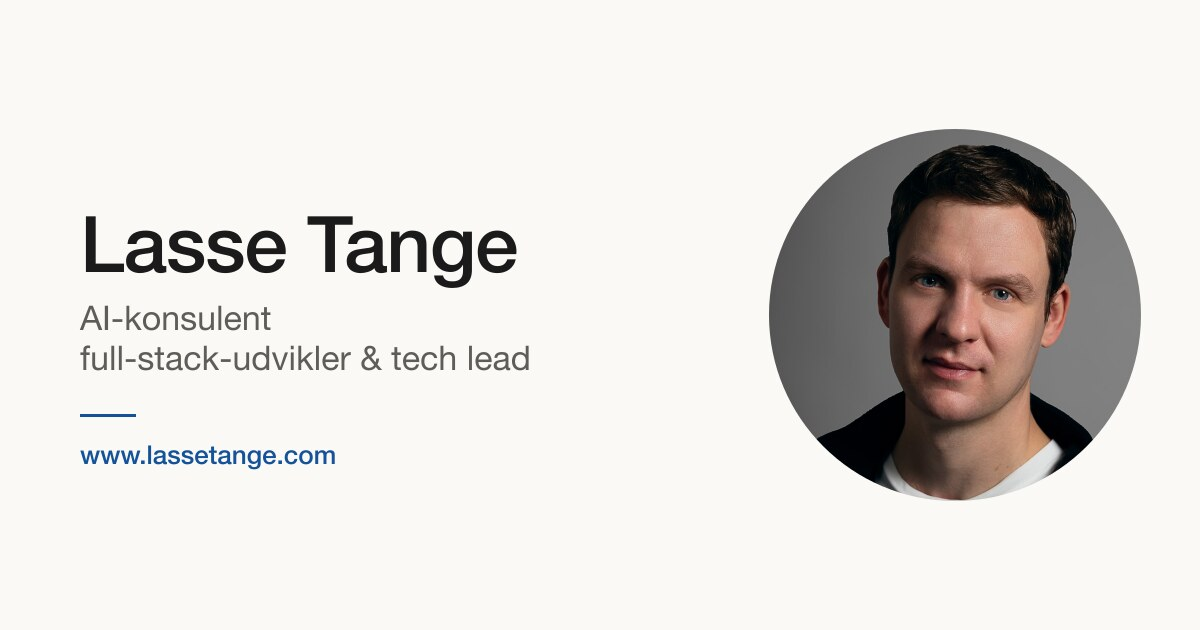
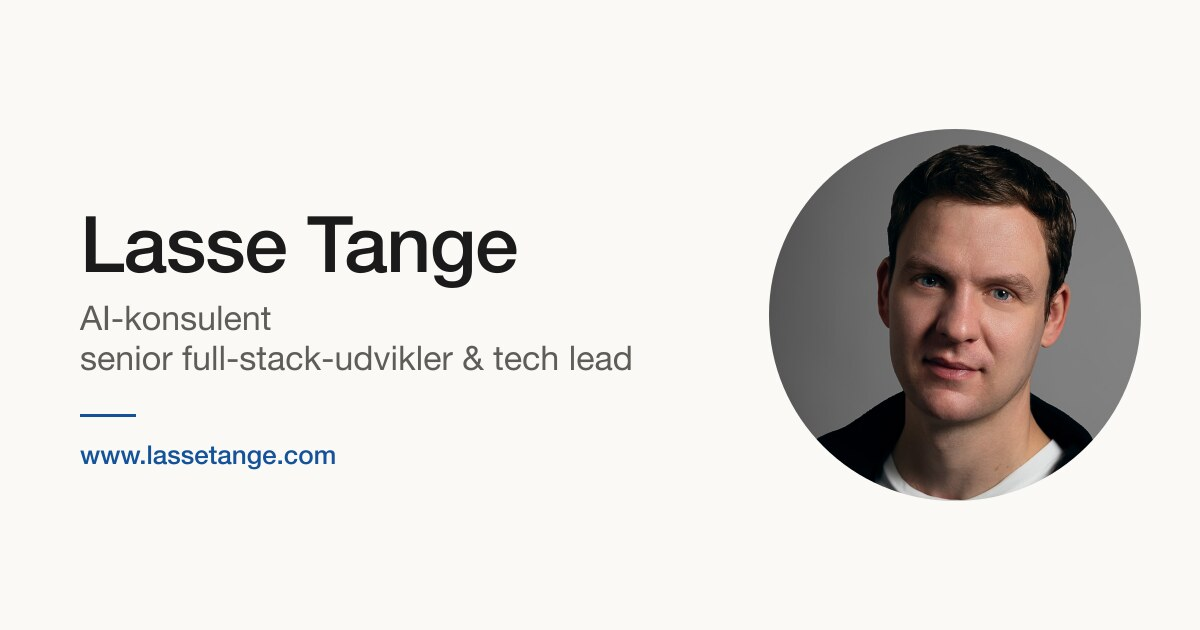
Update developer role

Changed region(s): [[0.0617, 0.5429, 0.5242, 0.6032]]

diff --git a/src/content/de/home.md b/src/content/de/home.md
@@ -1,6 +1,6 @@
 ---
 title: Lasse Tange
-tagline: KI-Berater, Full-Stack-Entwickler & Tech Lead
+tagline: KI-Berater, Senior-Full-Stack-Entwickler & Tech Lead
 description: KI-Berater und Senior-Full-Stack-Entwickler in Kopenhagen. Über 15 Jahre Erfahrung mit Web-, Mobile- und Desktop-Apps, mit Fokus auf angewandte KI.
 ---
 

diff --git a/src/content/da/home.md b/src/content/da/home.md
@@ -1,6 +1,6 @@
 ---
 title: Lasse Tange
-tagline: AI-konsulent, full-stack-udvikler & tech lead
+tagline: AI-konsulent, senior full-stack-udvikler & tech lead
 description: AI-konsulent og senior full-stack-udvikler i København. Over 15 års erfaring med web-, mobil- og desktopapps og særligt fokus på anvendt AI.
 ---
 

diff --git a/src/content/en/home.md b/src/content/en/home.md
@@ -1,6 +1,6 @@
 ---
 title: Lasse Tange
-tagline: AI Consultant, Full-Stack Developer & Tech Lead
+tagline: AI Consultant, Senior Full-Stack Developer & Tech Lead
 description: AI consultant and senior full-stack developer in Copenhagen. 15+ years building web, mobile and desktop apps, with a focus on applied AI.
 ---
 
